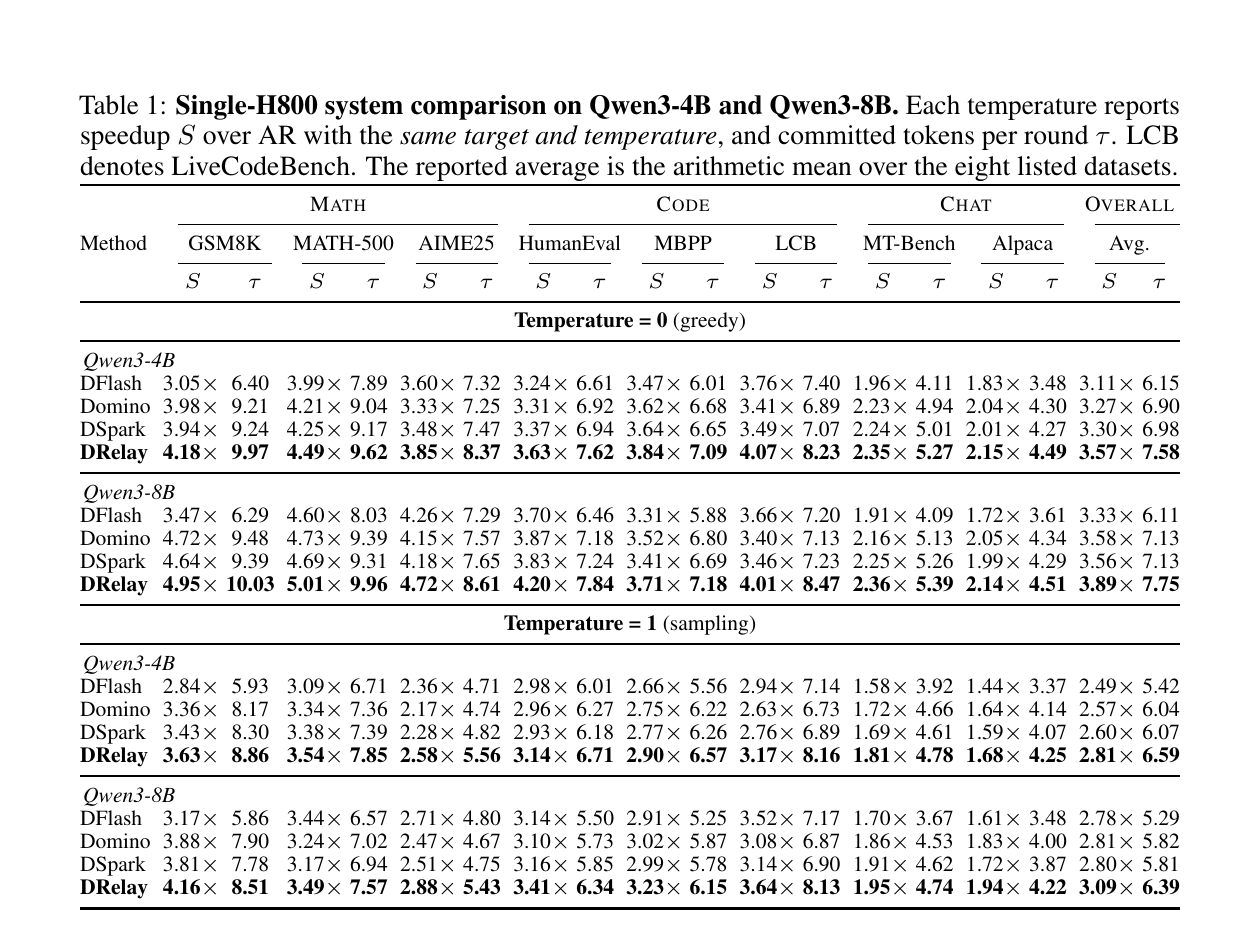
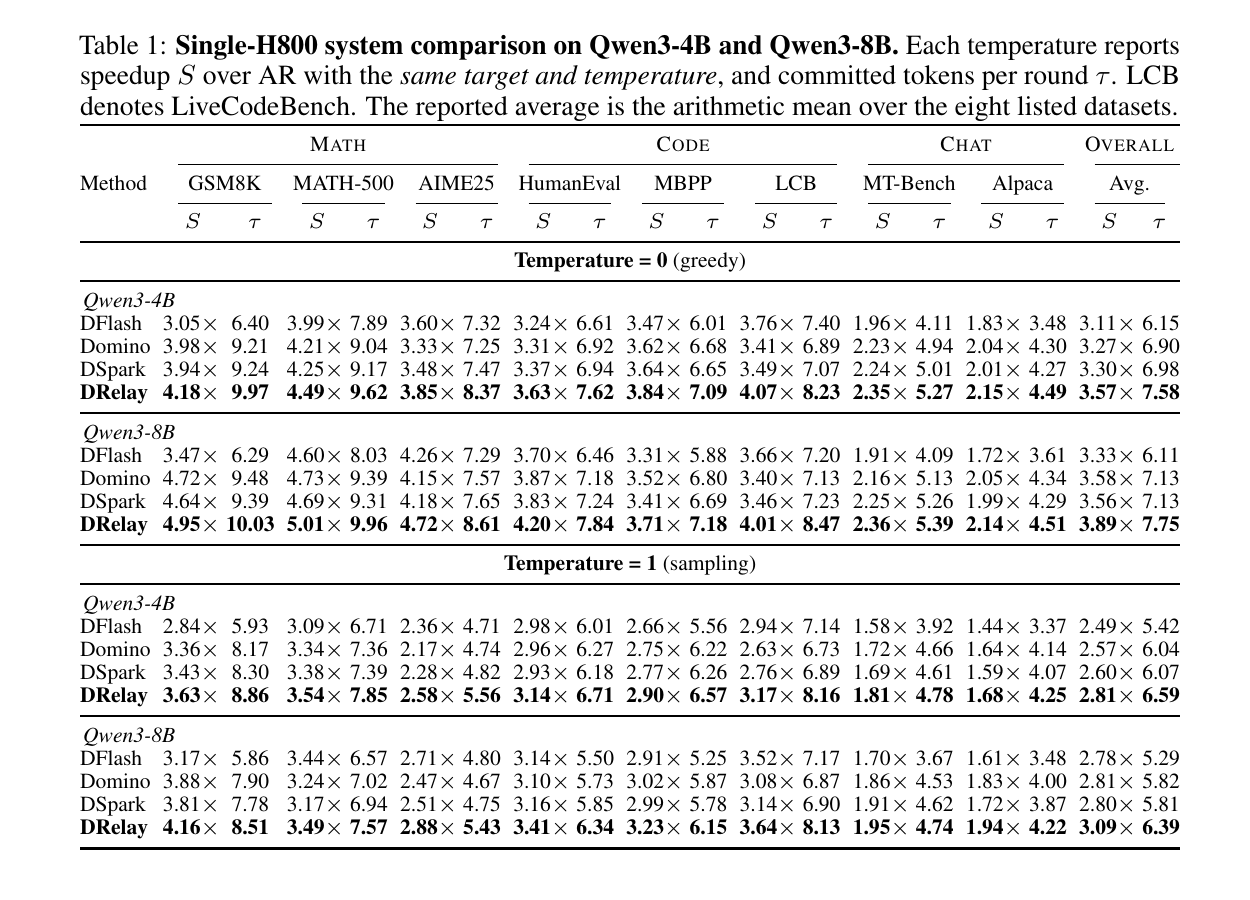
speculative decoding: repair visual evidence crops

Changed region(s): [[0.0624, 0.0311, 0.9672, 0.9644]]

diff --git a/02_model_systems/speculative_decoding/papers/d-loop.md b/02_model_systems/speculative_decoding/papers/d-loop.md
@@ -17,12 +17,13 @@ tags:
 > - 证据资产：`../assets/papers/d-loop/`
 
 ## 修订信息
[1 lines of base64/hex data omitted]
+- 当前文档版本：`1.2.0`；当前修订 ID：`rev-d-loop-visual-crop-correction-20261010`；当前修订时间：`2026-10-10T12:00:00+08:00`；替代版本：`rev-d-loop-evidence-correction-20261009` / `1.1.0`。
 
 | 修订 ID | 文档版本 | 时间 | 修订者 | 类型 | 替代修订 | 迁移问题/解析 | 变更摘要 | 原因 | 影响位置 | 依据 | 对结论影响 |
 |---|---|---|---|---|---|---|---|---|---|---|---|
 | `rev-d-loop-initial-20261008` | `1.0.0` | `2026-10-08T21:00:00+08:00` | Codex | initial | 无 | 无 | 首次精读 | 用户请求 | 全文 | arXiv v1 | material |
 | `rev-d-loop-evidence-correction-20261009` | `1.1.0` | `2026-10-09T12:00:00+08:00` | Codex | correction | `rev-d-loop-initial-20261008` / `1.0.0` / `fe079276...` | 无 | 重建视觉证据、manifest 语义与 QA | 修复错误完成声明 | 修订信息、0、2、4、5、14 | PDF/source、严格交付校验、逐图 QA | material |
+| `rev-d-loop-visual-crop-correction-20261010` | `1.2.0` | `2026-10-10T12:00:00+08:00` | Codex | correction | `rev-d-loop-evidence-correction-20261009` / `1.1.0` | 无 | 重裁 Table 3/5/6，排除截断与邻文 | 用户指出表格截图不完整 | 0、5、14 | PDF p.7/9 原分辨率逐图 QA | material |
 
 ## 0. 资料与配图索引
 - 论文：[arXiv:2610.06011](https://arxiv.org/abs/2610.06011)，PDF/source v1。
@@ -73,6 +74,7 @@ tags:
 在不增加组件和第二套权重的情况下引入块内条件化；成功标准是 accepted length 与 speedup 超过 DFlash/DSpark，代价是额外 loop pass 可被收益抵消前仍要净加速。
 ### 2.4 核心方案如何解决并优化问题
 首轮生成完整 block；选出 prefix 后，第二轮把 prefix 显式 reveal，平行重生成 suffix；两轮共享 backbone。prefix–suffix loss 让同一模型学会两种输入视图。
+
 | 设计 | 改变 | 预期指标 | 证据 |
 |---|---|---|---|
 | looped shared backbone | suffix 条件从 anchor 变为 selected prefix | 减少重复、提高 $\tau$ | Fig.1, Table 3 |
@@ -99,6 +101,7 @@ tags:
 **前缀—后缀联合损失。** 只训练 full-mask 或 suffix view 会使首轮 proposal 与二轮 refinement 互相牵制；联合目标让两个输入视图都得到监督。Table 5 是直接消融，但增益相对完整系统较小。
 
 **选择性前缀暴露。** 直接 reveal 整个首轮 block 会把错误 token 送入后缀；只暴露选定 prefix 可降低错误传播。其代价是 prefix 选择策略本身需要校准，论文没有完全拆分这一决策的误差来源。
+
 | 设计项 | 依据 | 证据强度 |
 |---|---|---|
 | looped shared parameters | author-stated §3 | 直接机制+主结果 |

diff --git a/02_model_systems/speculative_decoding/evidence/2610-figure-inventory.md b/02_model_systems/speculative_decoding/evidence/2610-figure-inventory.md
@@ -2,8 +2,8 @@
 
 | Paper | Object | Source | Caption / purpose | Crop | Usage | QA |
 |---|---|---|---|---|---|---|
-| dloop | Figure 2 | arXiv:2610.07659v1, PDF p.3；source `fig_pipeline_comparison.pdf` | Comparison of speculative and looped speculative decoding. | `../assets/papers/dloop/fig2-pipeline.png`；source figure rasterized at 180 dpi，单一对象 | `dloop.md#43-模型系统架构` | 原分辨率检查通过，边界由 source PDF 保留 |
-| d-loop | Figure 1 | arXiv:2610.06011v1, PDF p.4；source `D-Loop-framework-final_cropped.pdf` | Overview of DFlash and D-Loop, including prefix reveal and suffix regeneration. | `../assets/papers/d-loop/fig1-framework.png`；source figure rasterized at 180 dpi，单一对象 | `d-loop.md#41-方法总览` | 原分辨率检查通过 |
-| drelay | Figure 2 | arXiv:2610.01439v1, PDF p.3；source `fig2.pdf` | Candidate availability, continuation evidence, and repair value. | `../assets/papers/drelay/fig2-repair-evidence.png`；source figure rasterized at 180 dpi，单一对象 | `drelay.md#21-出发点与背景痛点` | 原分辨率检查通过 |
+| dloop | Figure 2 | arXiv:2610.07659v1, PDF p.3；source `fig_pipeline_comparison.pdf` | 完整原 caption：Comparison of speculative and looped speculative decoding. | `../assets/papers/dloop/fig2-looped-pipeline-caption.png`；单一对象与完整 caption | `dloop.md#43-模型系统架构` | 2026-10-10 原分辨率逐图复核通过 |
+| d-loop | Figure 1 | arXiv:2610.06011v1, PDF p.4；source `D-Loop-framework-final_cropped.pdf` | 完整原 caption：Overview of DFlash and D-Loop, including prefix reveal and suffix regeneration. | `../assets/papers/d-loop/fig1-framework-caption.png`；单一对象与完整 caption | `d-loop.md#41-方法总览` | 2026-10-10 原分辨率逐图复核通过 |
+| drelay | Figure 2 | arXiv:2610.01439v1, PDF p.3；source `fig2.pdf` | 完整原 caption：Candidate availability, continuation evidence, and repair value. | `../assets/papers/drelay/fig2-repair-opportunity-caption.png`；单一对象与完整 caption | `drelay.md#21-出发点与背景痛点` | 2026-10-10 原分辨率逐图复核通过 |
 
 说明：source figure 本身含完整 caption 语义；正式 Markdown 在图片邻近处保留完整用途说明。未把整页 PDF 或 contact sheet 提升为正式资产。

diff --git a/02_model_systems/speculative_decoding/papers/drelay.md b/02_model_systems/speculative_decoding/papers/drelay.md
@@ -17,12 +17,13 @@ tags:
 > - 证据资产：`../assets/papers/drelay/`
 
 ## 修订信息
[1 lines of base64/hex data omitted]
+- 当前文档版本：`1.2.0`；当前修订 ID：`rev-drelay-visual-crop-correction-20261010`；当前修订时间：`2026-10-10T12:00:00+08:00`；替代版本：`rev-drelay-evidence-correction-20261009` / `1.1.0`。
 
 | 修订 ID | 文档版本 | 时间 | 修订者 | 类型 | 替代修订 | 迁移问题/解析 | 变更摘要 | 原因 | 影响位置 | 依据 | 对结论影响 |
 |---|---|---|---|---|---|---|---|---|---|---|---|
 | `rev-drelay-initial-20261008` | `1.0.0` | `2026-10-08T21:00:00+08:00` | Codex | initial | 无 | 无 | 首次精读 | 用户请求 | 全文 | arXiv v1 | material |
 | `rev-drelay-evidence-correction-20261009` | `1.1.0` | `2026-10-09T12:00:00+08:00` | Codex | correction | `rev-drelay-initial-20261008` / `1.0.0` / `2d3f9ca...` | 无 | 重建视觉证据、manifest 语义与 QA | 修复错误完成声明 | 修订信息、0、2、4、5、14 | PDF/source、严格交付校验、逐图 QA | material |
+| `rev-drelay-visual-crop-correction-20261010` | `1.2.0` | `2026-10-10T12:00:00+08:00` | Codex | correction | `rev-drelay-evidence-correction-20261009` / `1.1.0` | 无 | 重裁 Table 1/3/4，排除截断与邻文 | 用户指出表格截图不完整 | 0、5、14 | PDF p.8/9 原分辨率逐图 QA | material |
 
 ## 0. 资料与配图索引
 - 论文：[arXiv:2610.01439](https://arxiv.org/abs/2610.01439)，PDF/source v1。

diff --git a/02_model_systems/speculative_decoding/papers/dloop.md b/02_model_systems/speculative_decoding/papers/dloop.md
@@ -17,15 +17,16 @@ tags:
 > - 证据资产：`../assets/papers/dloop/`
 
 ## 修订信息
-- 当前文档版本：`1.1.0`
-- 当前修订 ID：`rev-dloop-evidence-correction-20261009`
-- 当前修订时间：`2026-10-09T12:00:00+08:00`
+- 当前文档版本：`1.2.0`
+- 当前修订 ID：`rev-dloop-visual-crop-correction-20261010`
+- 当前修订时间：`2026-10-10T12:00:00+08:00`
[1 lines of base64/hex data omitted]
 
 | 修订 ID | 文档版本 | 时间 | 修订者 | 类型 | 替代修订 | 迁移问题/解析 | 变更摘要 | 原因 | 影响位置 | 依据 | 对结论影响 |
 |---|---|---|---|---|---|---|---|---|---|---|---|
 | `rev-dloop-initial-20261008` | `1.0.0` | `2026-10-08T21:00:00+08:00` | Codex | initial | 无 | 无 | 首次精读 | 用户请求 | 全文 | arXiv v1 | material |
 | `rev-dloop-evidence-correction-20261009` | `1.1.0` | `2026-10-09T12:00:00+08:00` | Codex | correction | `rev-dloop-initial-20261008` / `1.0.0` / `b0c83ff5...` | 无 | 重建视觉证据、manifest 语义与 QA | 修复错误完成声明 | 修订信息、0、1、2、4、5、14 | PDF/source、严格交付校验、逐图 QA | material |
+| `rev-dloop-visual-crop-correction-20261010` | `1.2.0` | `2026-10-10T12:00:00+08:00` | Codex | correction | `rev-dloop-evidence-correction-20261009` / `1.1.0` | 无 | 重裁 Table 1/2，排除截断与邻文 | 用户指出表格截图不完整 | 0、5、14 | PDF p.7/8 原分辨率逐图 QA | material |
 
 ## 0. 资料与配图索引
 - 论文：[arXiv:2610.07659](https://arxiv.org/abs/2610.07659)，PDF/source 已核验，v1。
